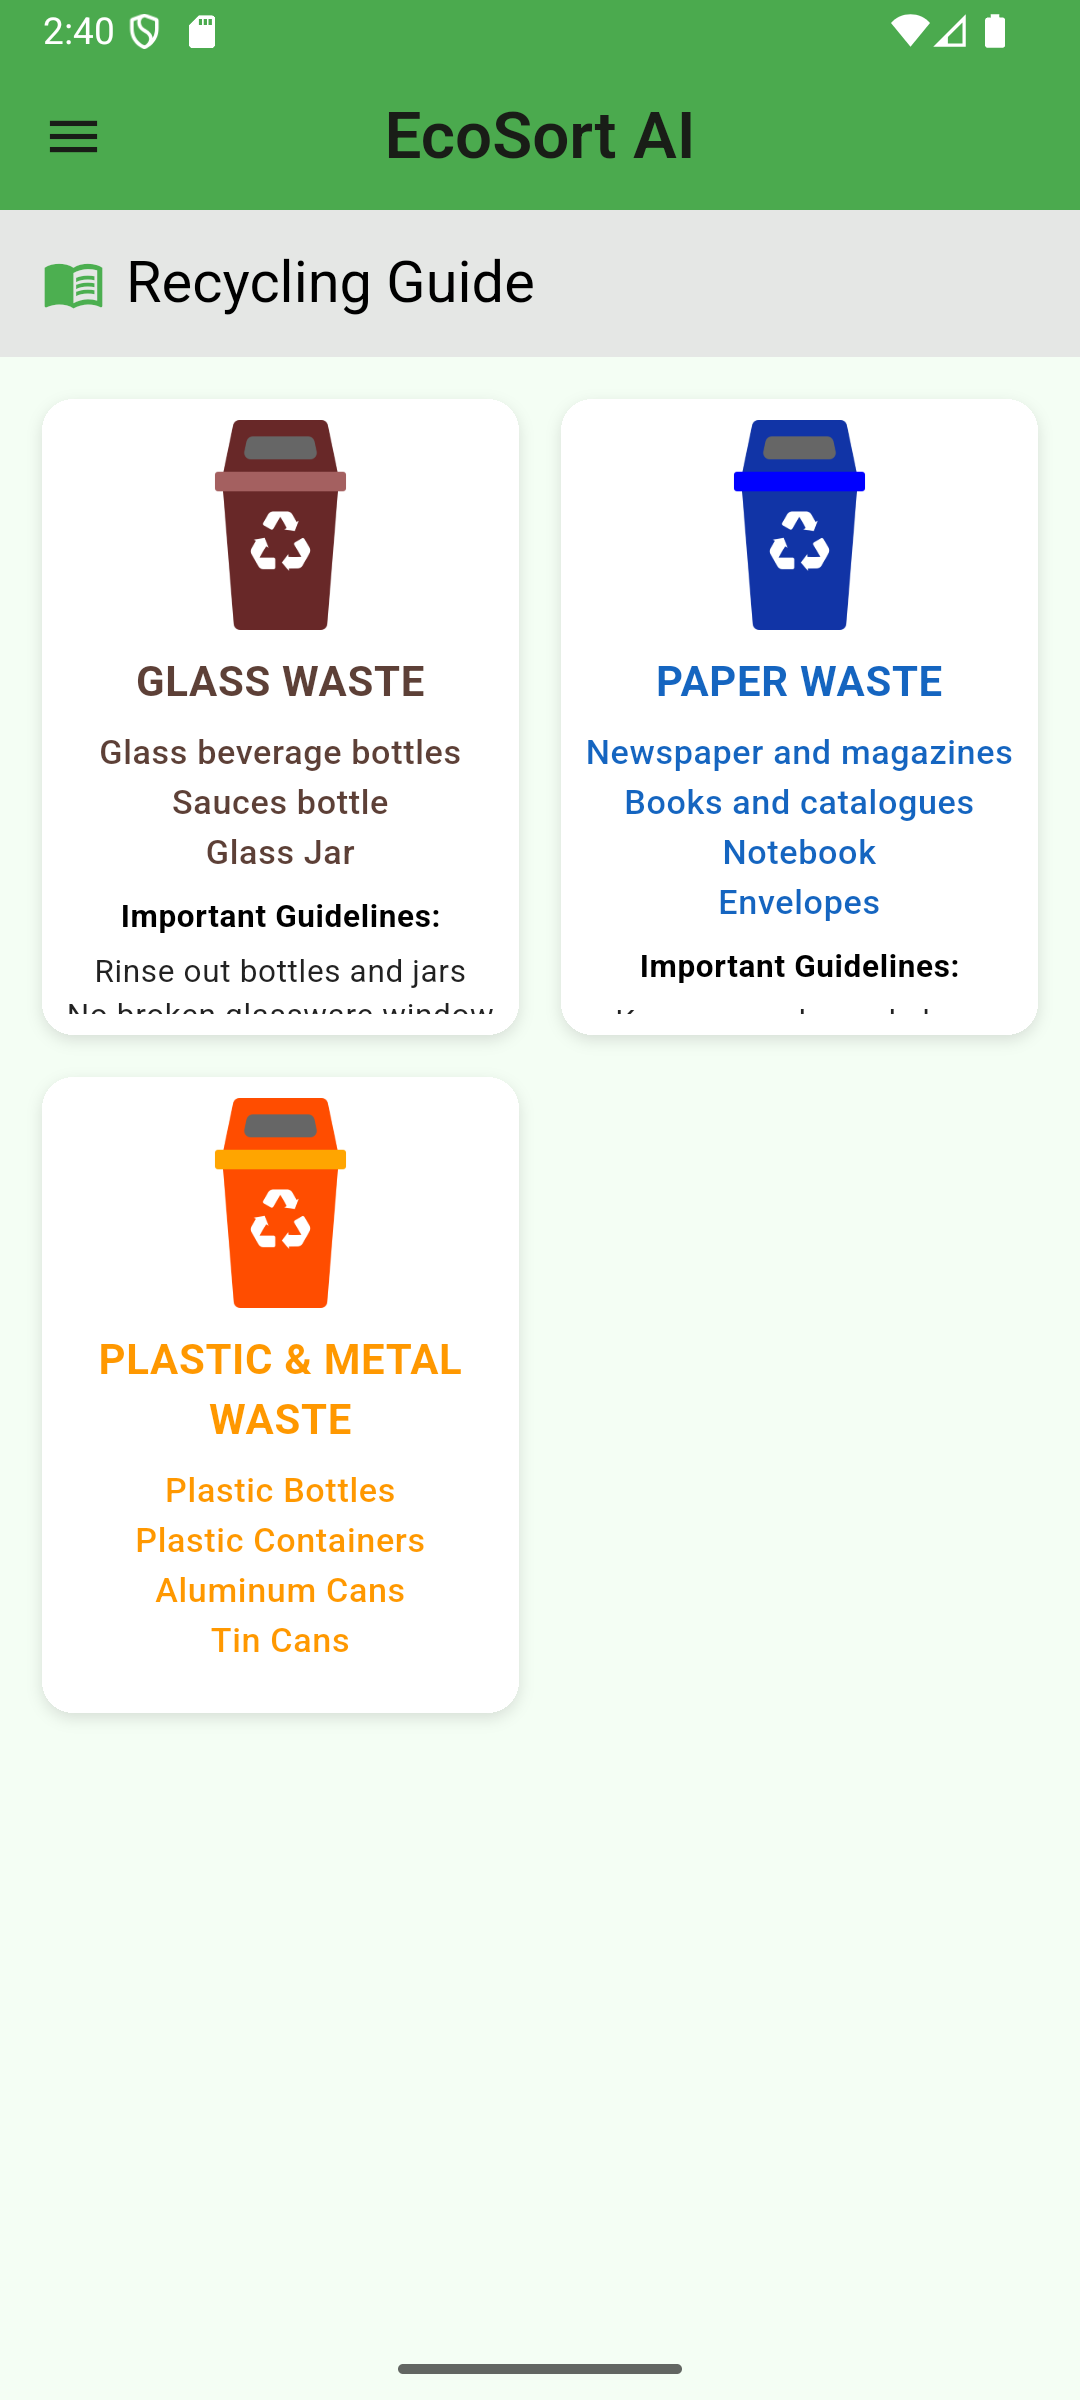
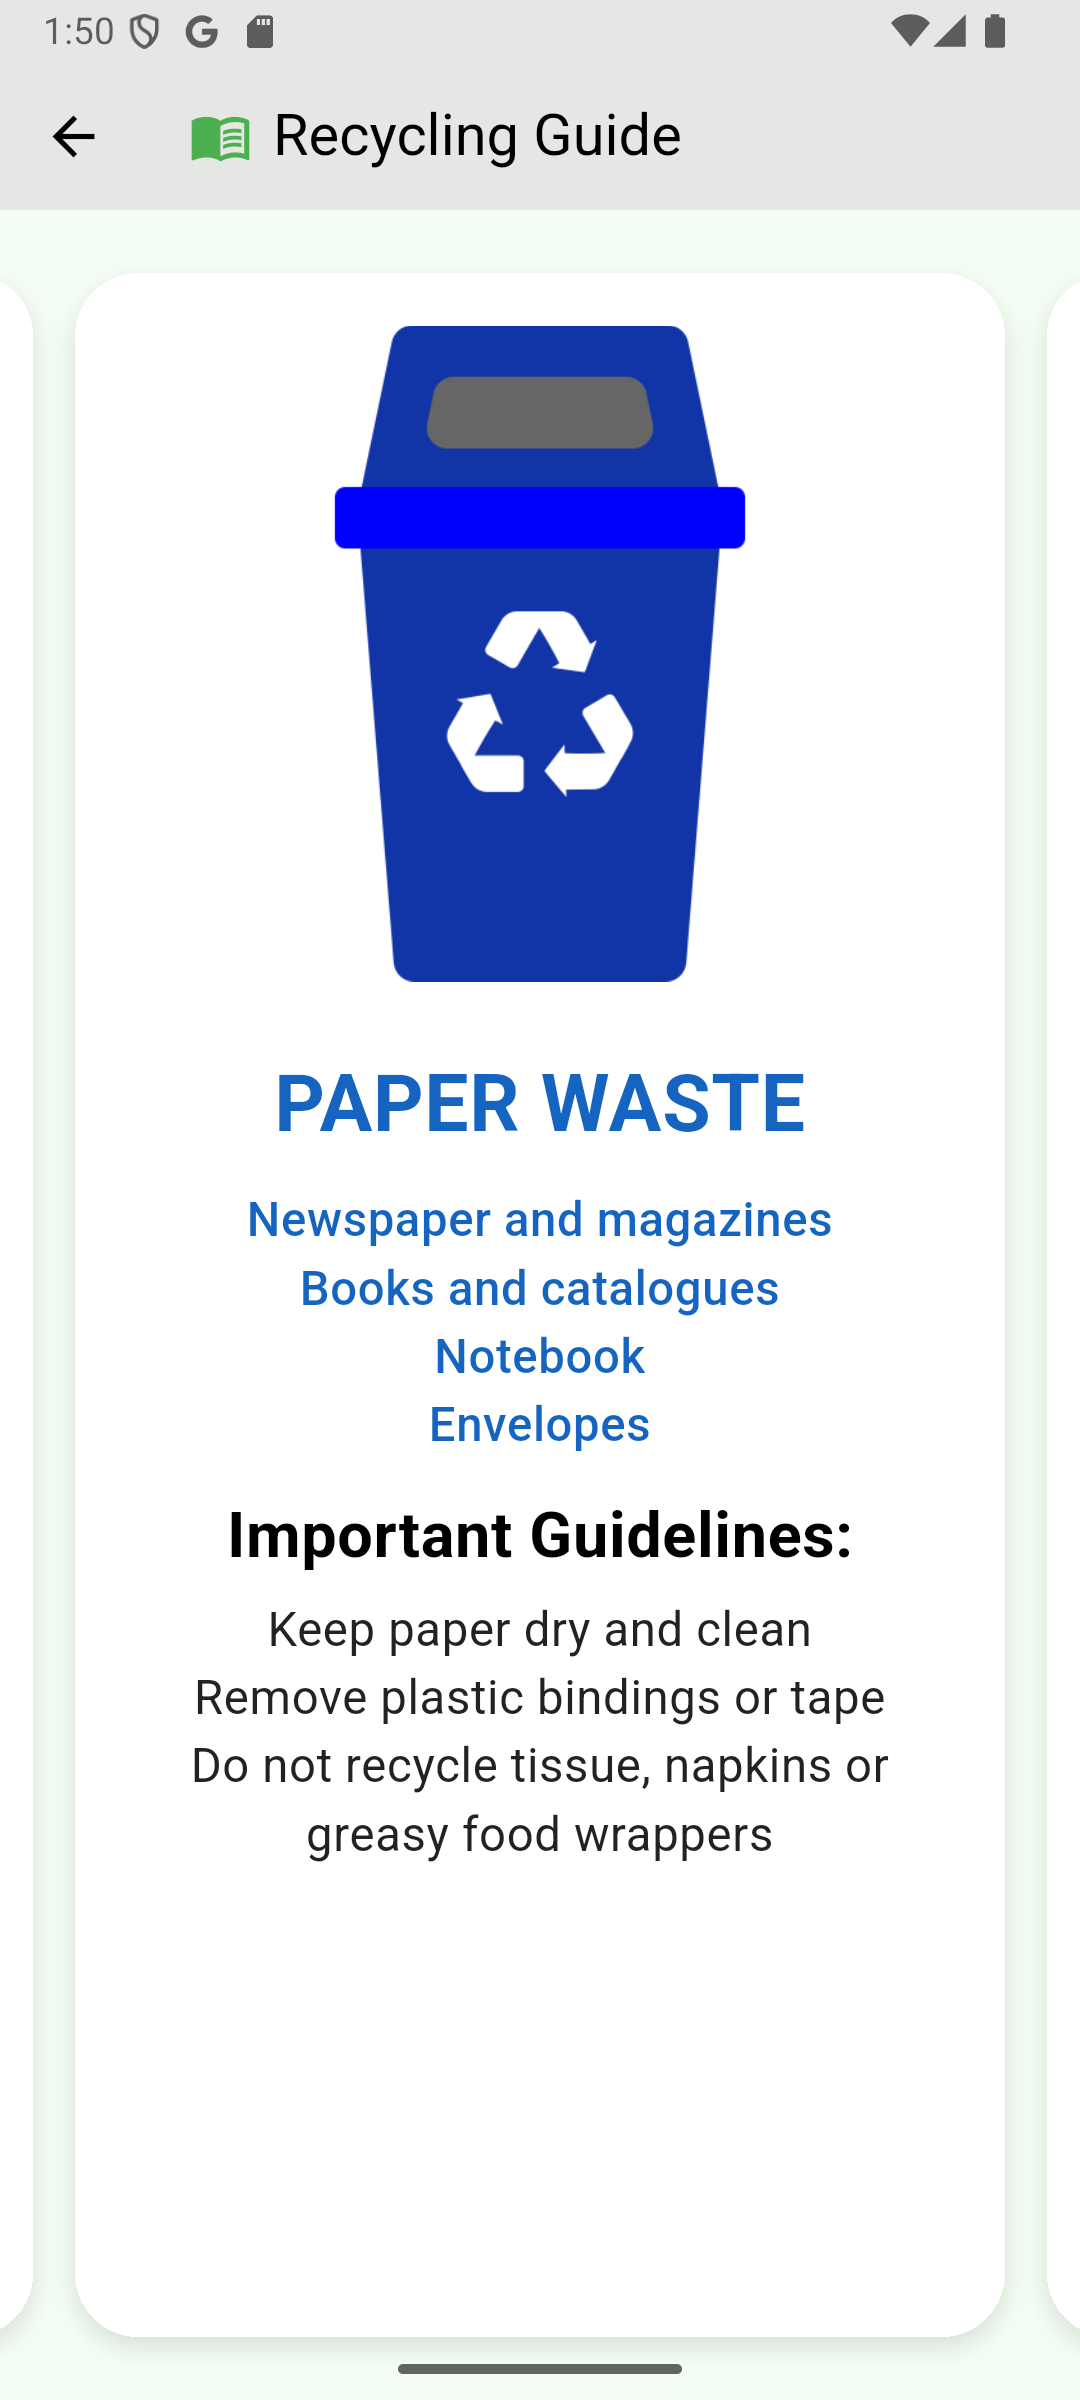
changes on ui design of guide page

Changed region(s): [[0.0, 0.0, 1.0, 0.7812], [0.0, 0.125, 0.0306, 0.1562]]

diff --git a/lib/Module/Guide.dart b/lib/Module/Guide.dart
@@ -13,7 +13,7 @@ class GuidePage extends StatelessWidget {
       case 'glass waste':
         return 'assets/recycle-bin(Brown).png';
       default:
-        return 'assets/default-bin.png';
+        return '';
     }
   }
 
@@ -26,7 +26,7 @@ class GuidePage extends StatelessWidget {
       case 'glass waste':
         return Colors.brown[700]!;
       default:
-        return Colors.green;
+        return Colors.grey;
     }
   }
 
@@ -63,93 +63,87 @@ class GuidePage extends StatelessWidget {
 
           final docs = snapshot.data!.docs;
 
-          return Padding(
-            padding: const EdgeInsets.all(16.0),
-            child: GridView.builder(
-              itemCount: docs.length,
-              gridDelegate: const SliverGridDelegateWithFixedCrossAxisCount(
-                crossAxisCount: 2, // 2 columns
-                mainAxisSpacing: 16,
-                crossAxisSpacing: 16,
-                childAspectRatio: 0.75, // increase height room
-              ),
-              itemBuilder: (context, index) {
-                final doc = docs[index];
-                final label = doc['label'];
-                final tips = doc['tip'] ?? 'No tip available.';
-                final examples = doc['example'] ?? '';
-                final imagePath = getImageForLabel(label);
-                final color = getColorForLabel(label);
+          return PageView.builder(
+            itemCount: docs.length,
+            controller: PageController(viewportFraction: 0.9),
+            itemBuilder: (context, index) {
+              final doc = docs[index];
+              final label = doc['label'];
+              final tips = doc['tip'] ?? 'No tip available.';
+              final examples = doc['example'] ?? '';
+              final imagePath = getImageForLabel(label);
+              final color = getColorForLabel(label);
 
-                return Container(
+              return Padding(
+                padding: const EdgeInsets.symmetric(vertical: 24.0),
+                child: Container(
+                  margin: const EdgeInsets.symmetric(horizontal: 8),
                   decoration: BoxDecoration(
                     color: Colors.white,
-                    borderRadius: BorderRadius.circular(12),
+                    borderRadius: BorderRadius.circular(24),
                     boxShadow: [
                       BoxShadow(
                         color: Colors.black12,
-                        blurRadius: 4,
-                        offset: Offset(0, 2),
+                        blurRadius: 8,
+                        offset: Offset(0, 4),
                       ),
                     ],
                   ),
                   child: Padding(
-                    padding: const EdgeInsets.all(8.0),
-                    child: SingleChildScrollView(
-                      child: Column(
-                        mainAxisAlignment: MainAxisAlignment.start,
-                        children: [
-                          Image.asset(
-                            imagePath,
-                            width: 80,
-                            height: 80,
-                            fit: BoxFit.contain,
+                    padding: const EdgeInsets.all(20.0),
+                    child: Column(
+                      mainAxisAlignment: MainAxisAlignment.start,
+                      children: [
+                        Image.asset(
+                          imagePath,
+                          width: 250,
+                          height: 250,
+                          fit: BoxFit.contain,
+                        ),
+                        const SizedBox(height: 25),
+                        Text(
+                          label.toUpperCase(),
+                          textAlign: TextAlign.center,
+                          style: TextStyle(
+                            color: color,
+                            fontWeight: FontWeight.bold,
+                            fontSize: 30,
                           ),
-                          const SizedBox(height: 8),
-                          Text(
-                            label.toUpperCase(),
-                            textAlign: TextAlign.center,
-                            style: TextStyle(
-                              color: color,
-                              fontWeight: FontWeight.bold,
-                              fontSize: 16,
-                            ),
+                        ),
+                        const SizedBox(height: 10),
+                        Text(
+                          examples,
+                          textAlign: TextAlign.center,
+                          style: TextStyle(
+                            color: color,
+                            fontSize: 18,
+                            fontWeight: FontWeight.w500,
                           ),
-                          const SizedBox(height: 6),
-                          Text(
-                            examples,
-                            textAlign: TextAlign.center,
-                            style: TextStyle(
-                              color: color,
-                              fontSize: 13,
-                              fontWeight: FontWeight.w500,
-                            ),
+                        ),
+                        const SizedBox(height: 12),
+                        const Text(
+                          'Important Guidelines:',
+                          style: TextStyle(
+                            fontWeight: FontWeight.bold,
+                            fontSize: 24,
+                            color: Colors.black,
                           ),
-                          const SizedBox(height: 6),
-                          const Text(
-                            'Important Guidelines:',
-                            style: TextStyle(
-                              fontWeight: FontWeight.bold,
-                              fontSize: 12,
-                              color: Colors.black,
-                            ),
+                        ),
+                        const SizedBox(height: 6),
+                        Text(
+                          tips,
+                          textAlign: TextAlign.center,
+                          style: const TextStyle(
+                            fontSize: 18,
+                            color: Colors.black87,
                           ),
-                          const SizedBox(height: 4),
-                          Text(
-                            tips,
-                            textAlign: TextAlign.center,
-                            style: const TextStyle(
-                              fontSize: 12,
-                              color: Colors.black87,
-                            ),
-                          ),
-                        ],
-                      ),
+                        ),
+                      ],
                     ),
                   ),
-                );
-              },
-            ),
+                ),
+              );
+            },
           );
         },
       ),

diff --git a/lib/Module/RedeemVoucher.dart b/lib/Module/RedeemVoucher.dart
@@ -124,7 +124,7 @@ class _RedeemPageState extends State<RedeemPage> {
                                       );
                                       setState(
                                         () {},
-                                      ); // ✅ Now works in StatefulWidget
+                                      ); 
                                     }
                                   : null,
                               child: const Text("Redeem"),

diff --git a/lib/Module/Waste.dart b/lib/Module/Waste.dart
@@ -148,7 +148,7 @@ class _WastePageState extends State<WastePage> {
       case 'glass':
         return 'assets/recycle-bin(Brown).png';
       default:
-        return 'assets/default-bin.png';
+        return '';
     }
   }
 
